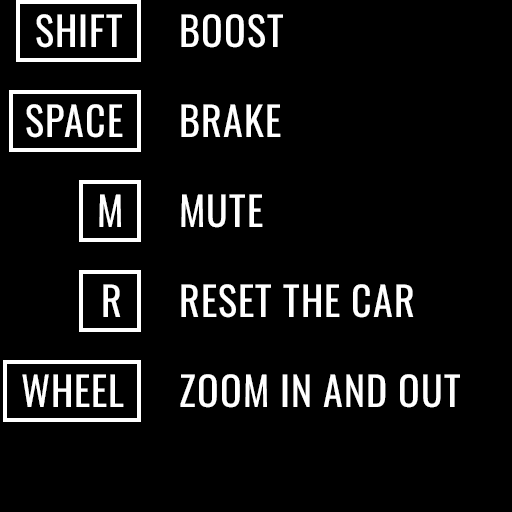
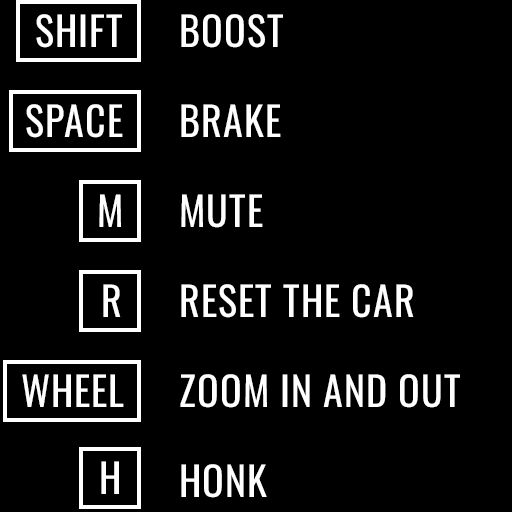
:sparkles: Add horn

Changed region(s): [[0.1562, 0.875, 0.2812, 1.0], [0.3438, 0.9062, 0.5312, 0.9688]]

diff --git a/src/javascript/World/Car.js b/src/javascript/World/Car.js
@@ -39,6 +39,7 @@ export default class Car
         this.setWheels()
         this.setTransformControls()
         this.setShootingBall()
+        this.setKlaxon()
     }
 
     setModels()
@@ -324,6 +325,49 @@ export default class Car
                 direction.normalize()
                 direction = direction.scale(100)
                 bowlingBall.collision.body.applyImpulse(direction, bowlingBall.collision.body.position)
+            }
+        })
+    }
+
+    setKlaxon()
+    {
+        this.klaxon = {}
+        this.klaxon.waitDuration = 150
+        this.klaxon.can = true
+
+        window.addEventListener('keydown', (_event) =>
+        {
+            // Play horn sound
+            if(_event.key === 'h' && this.klaxon.can)
+            {
+                this.klaxon.can = false
+                window.setTimeout(() =>
+                {
+                    this.klaxon.can = true
+                }, this.klaxon.waitDuration)
+
+                this.physics.car.jump(false, 20)
+                this.sounds.play(Math.random() < 0.002 ? 'carHorn2' : 'carHorn1')
+            }
+
+            // Rain horns
+            if(_event.key === 'k')
+            {
+                const x = this.position.x + (Math.random() - 0.5) * 3
+                const y = this.position.y + (Math.random() - 0.5) * 3
+                const z = 6 + 2 * Math.random()
+
+                this.objects.add({
+                    base: this.resources.items.hornBase.scene,
+                    collision: this.resources.items.hornCollision.scene,
+                    offset: new THREE.Vector3(x, y, z),
+                    rotation: new THREE.Euler(Math.random() * Math.PI * 2, Math.random() * Math.PI * 2, Math.random() * Math.PI * 2),
+                    duplicated: true,
+                    shadow: { sizeX: 1.5, sizeY: 1.5, offsetZ: - 0.15, alpha: 0.35 },
+                    mass: 5,
+                    soundName: 'horn',
+                    sleep: false
+                })
             }
         })
     }

diff --git a/src/javascript/World/Sounds.js b/src/javascript/World/Sounds.js
@@ -27,6 +27,13 @@ import screech1Sound from '../../sounds/screeches/screech-1.mp3'
 
 import uiArea1Sound from '../../sounds/ui/area-1.mp3'
 
+import carHorn1Sound from '../../sounds/car-horns/car-horn-1.mp3'
+import carHorn2Sound from '../../sounds/car-horns/car-horn-2.mp3'
+
+import horn1Sound from '../../sounds/horns/horn-1.mp3'
+import horn2Sound from '../../sounds/horns/horn-2.mp3'
+import horn3Sound from '../../sounds/horns/horn-3.mp3'
+
 export default class Sounds
 {
     constructor(_options)
@@ -141,6 +148,39 @@ export default class Sounds
                 volumeMax: 1,
                 rateMin: 0.95,
                 rateMax: 1.05
+            },
+            {
+                name: 'carHorn1',
+                sounds: [carHorn1Sound],
+                minDelta: 0,
+                velocityMin: 0,
+                velocityMultiplier: 1,
+                volumeMin: 0.95,
+                volumeMax: 1,
+                rateMin: 1,
+                rateMax: 1
+            },
+            {
+                name: 'carHorn2',
+                sounds: [carHorn2Sound],
+                minDelta: 0,
+                velocityMin: 0,
+                velocityMultiplier: 1,
+                volumeMin: 0.95,
+                volumeMax: 1,
+                rateMin: 1,
+                rateMax: 1
+            },
+            {
+                name: 'horn',
+                sounds: [horn1Sound, horn2Sound, horn3Sound],
+                minDelta: 100,
+                velocityMin: 1,
+                velocityMultiplier: 0.75,
+                volumeMin: 0.5,
+                volumeMax: 1,
+                rateMin: 0.75,
+                rateMax: 1
             }
         ]
 

diff --git a/src/javascript/Resources.js b/src/javascript/Resources.js
@@ -124,6 +124,10 @@ import playgroundStaticCollisionSource from '../models/playground/static/collisi
 import brickBaseSource from '../models/brick/base.glb'
 import brickCollisionSource from '../models/brick/collision.glb'
 
+// Horn
+import hornBaseSource from '../models/horn/base.glb'
+import hornCollisionSource from '../models/horn/collision.glb'
+
 // Lemon
 import lemonBaseSource from '../models/lemon/base.glb'
 import lemonCollisionSource from '../models/lemon/collision.glb'
@@ -324,6 +328,10 @@ export default class Resources extends EventEmitter
             // Brick
             { name: 'brickBase', source: brickBaseSource },
             { name: 'brickCollision', source: brickCollisionSource },
+
+            // Horn
+            { name: 'hornBase', source: hornBaseSource },
+            { name: 'hornCollision', source: hornCollisionSource },
 
             // Lemon
             { name: 'lemonBase', source: lemonBaseSource },

diff --git a/src/javascript/World/Sections/IntroSection.js b/src/javascript/World/Sections/IntroSection.js
@@ -142,6 +142,19 @@ export default class IntroSection
         this.otherInstructions.label.mesh = new THREE.Mesh(this.otherInstructions.label.geometry, this.otherInstructions.label.material)
         this.otherInstructions.label.mesh.matrixAutoUpdate = false
         this.otherInstructions.container.add(this.otherInstructions.label.mesh)
+
+        // Horn
+        this.otherInstructions.horn = this.objects.add({
+            base: this.resources.items.hornBase.scene,
+            collision: this.resources.items.hornCollision.scene,
+            offset: new THREE.Vector3(this.otherInstructions.x + 1.25, this.otherInstructions.y - 2.75, 0.2),
+            rotation: new THREE.Euler(0, 0, 0.5),
+            duplicated: true,
+            shadow: { sizeX: 1.65, sizeY: 0.75, offsetZ: - 0.1, alpha: 0.4 },
+            mass: 1.5,
+            soundName: 'horn',
+            sleep: false
+        })
     }
 
     setTitles()

diff --git a/src/javascript/World/Physics.js b/src/javascript/World/Physics.js
@@ -160,11 +160,11 @@ export default class Physics
         /**
          * Jump
          */
-        this.car.jump = (_toReturn = true) =>
+        this.car.jump = (_toReturn = true, _strength = 60) =>
         {
             let worldPosition = this.car.chassis.body.position
             worldPosition = worldPosition.vadd(new CANNON.Vec3(_toReturn ? 0.08 : 0, 0, 0))
-            this.car.chassis.body.applyImpulse(new CANNON.Vec3(0, 0, 60), worldPosition)
+            this.car.chassis.body.applyImpulse(new CANNON.Vec3(0, 0, _strength), worldPosition)
         }
 
         /**

diff --git a/src/javascript/World/Controls.js b/src/javascript/World/Controls.js
@@ -14,6 +14,7 @@ export default class Controls extends EventEmitter
         this.sizes = _options.sizes
         this.time = _options.time
         this.camera = _options.camera
+        this.sounds = _options.sounds
 
         this.setActions()
         this.setKeyboard()

diff --git a/src/javascript/World/index.js b/src/javascript/World/index.js
@@ -260,7 +260,8 @@ export default class
             config: this.config,
             sizes: this.sizes,
             time: this.time,
-            camera: this.camera
+            camera: this.camera,
+            sounds: this.sounds
         })
     }
 
